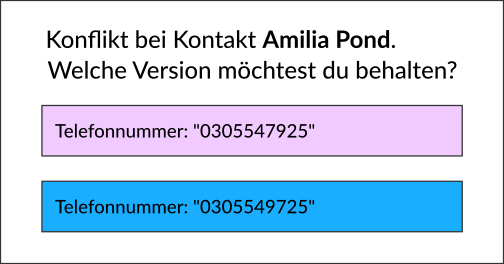
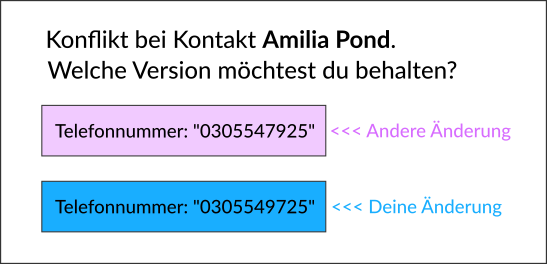
req: specify dialog

diff --git a/chapters/5Anforderungen.tex b/chapters/5Anforderungen.tex
@@ -30,7 +30,7 @@ Wenn es zum Konflikt kommt, kann dieser über ein Dialogfenster aufgelöst werde
 Außerdem müssen sich die entsprechenden Bereiche beider Versionen unterscheiden lassen und auswählbar sein. Abbildung \ref{fig:dialog} zeigt wie so ein Dialogfenster aussehen könnte.
 \begin{figure}[H]
 	\centering
-	\includegraphics[width=0.7\textwidth]{Konfliktdialog}
+	\includegraphics[width=0.8\textwidth]{Konfliktdialog}
 	\grayRule
 	\caption{Dialogfenster im Konfliktfall}
 	\label{fig:dialog}
